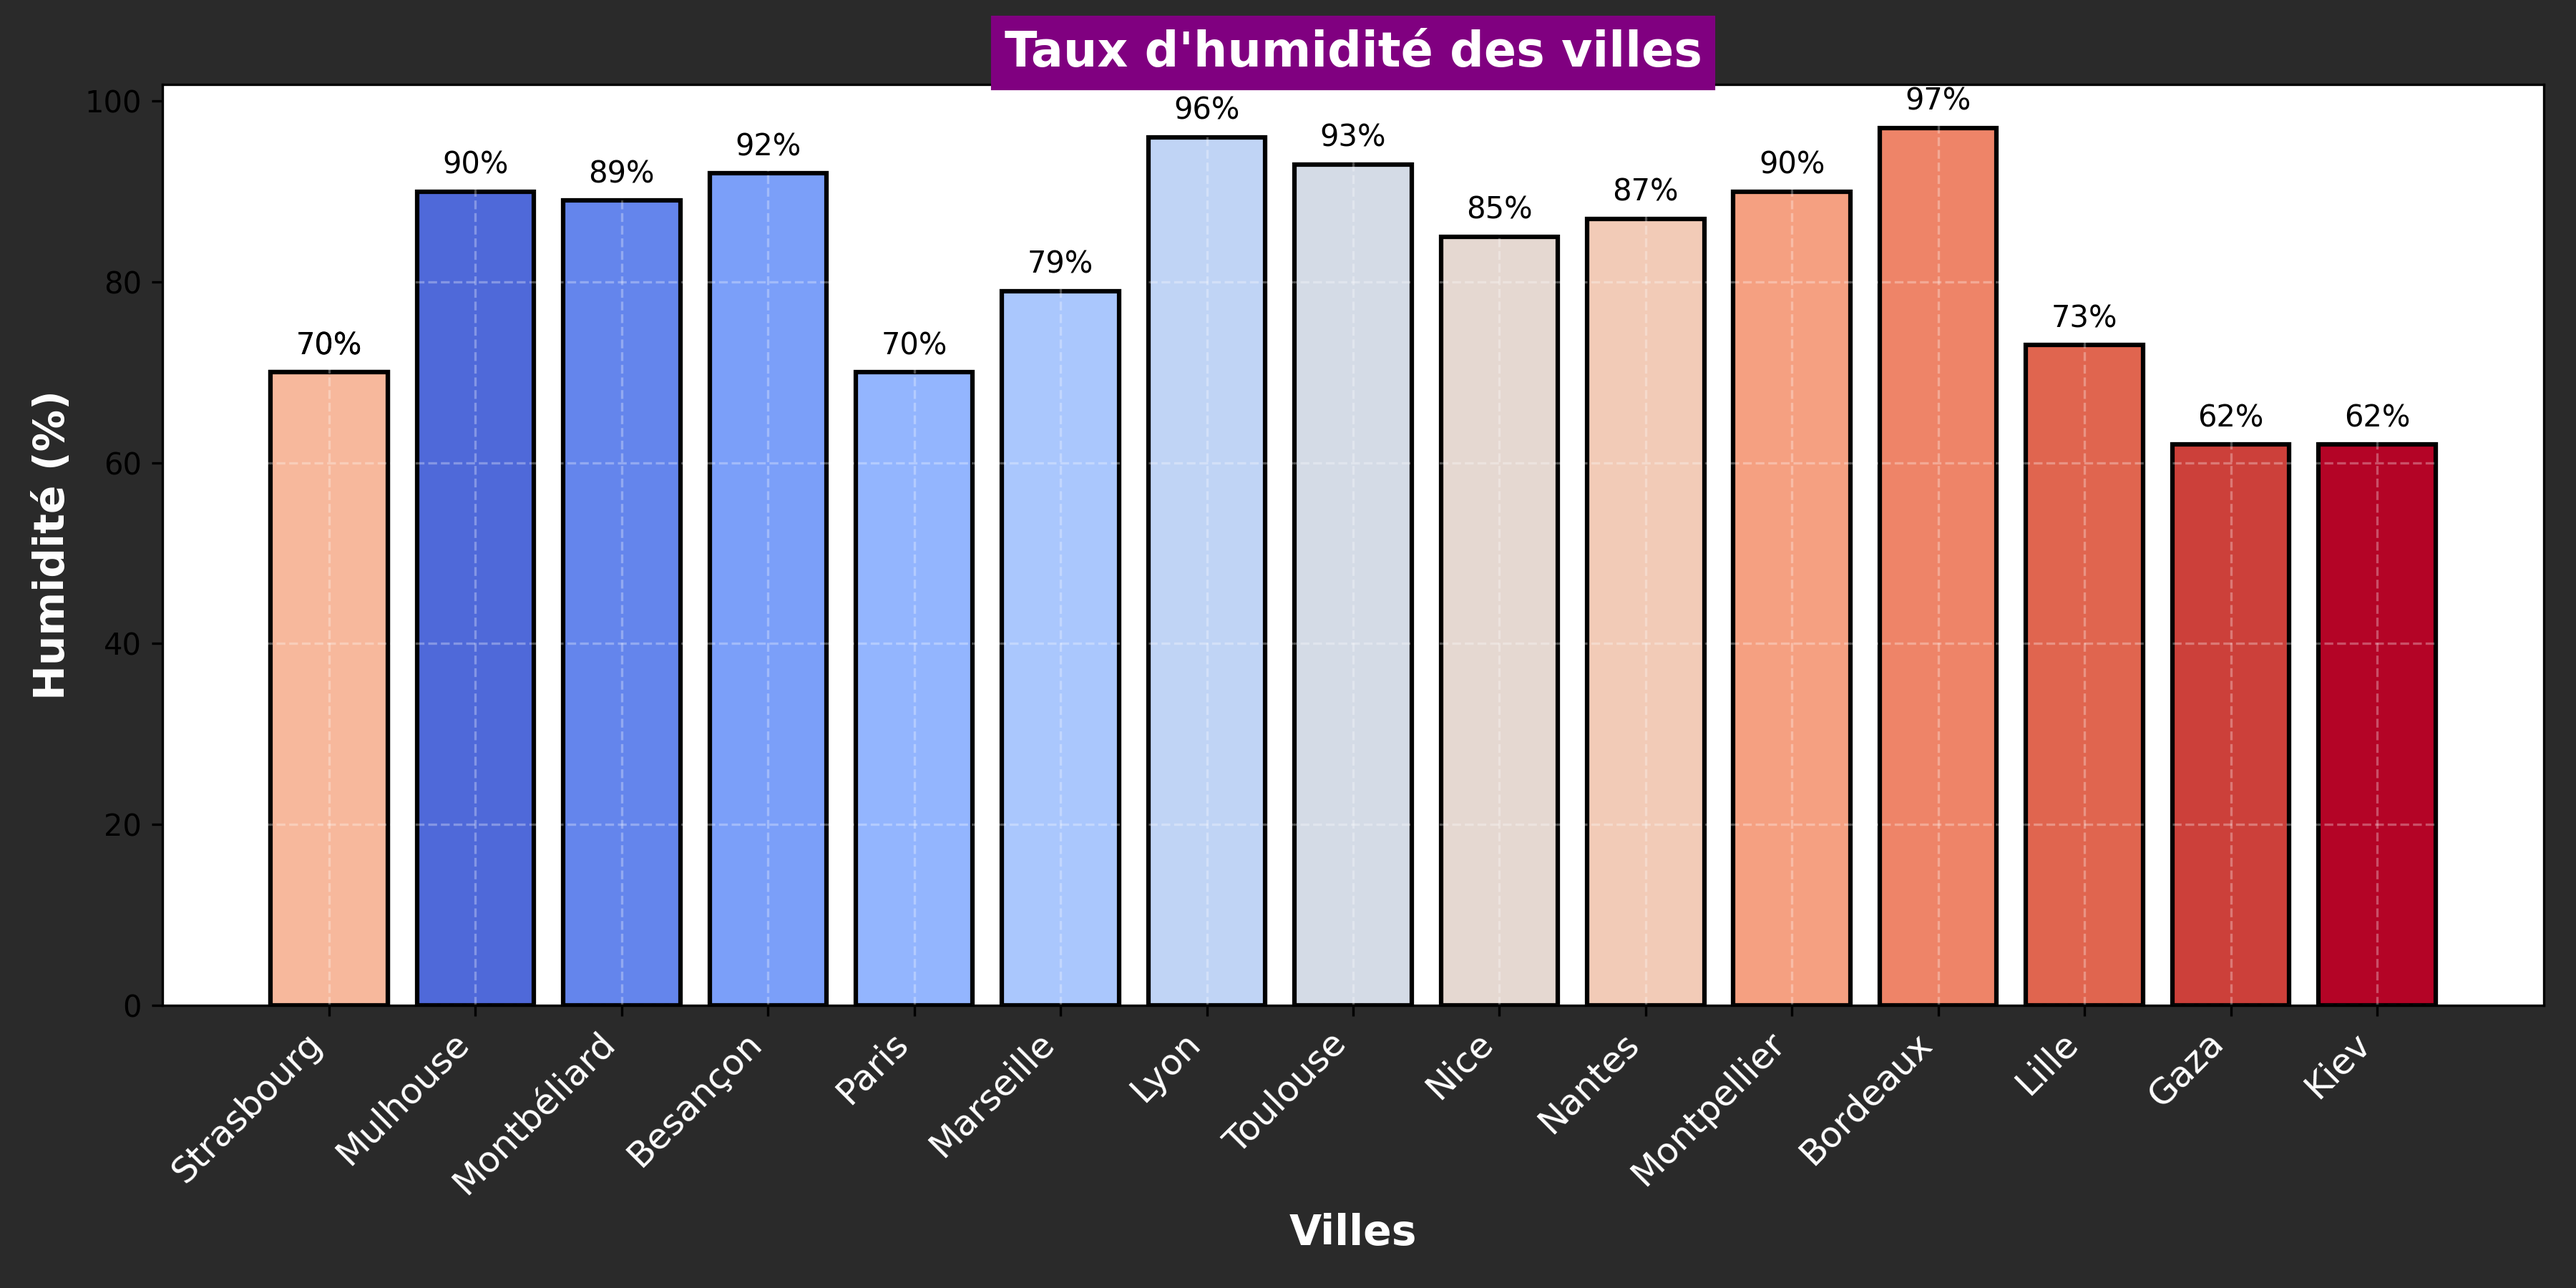
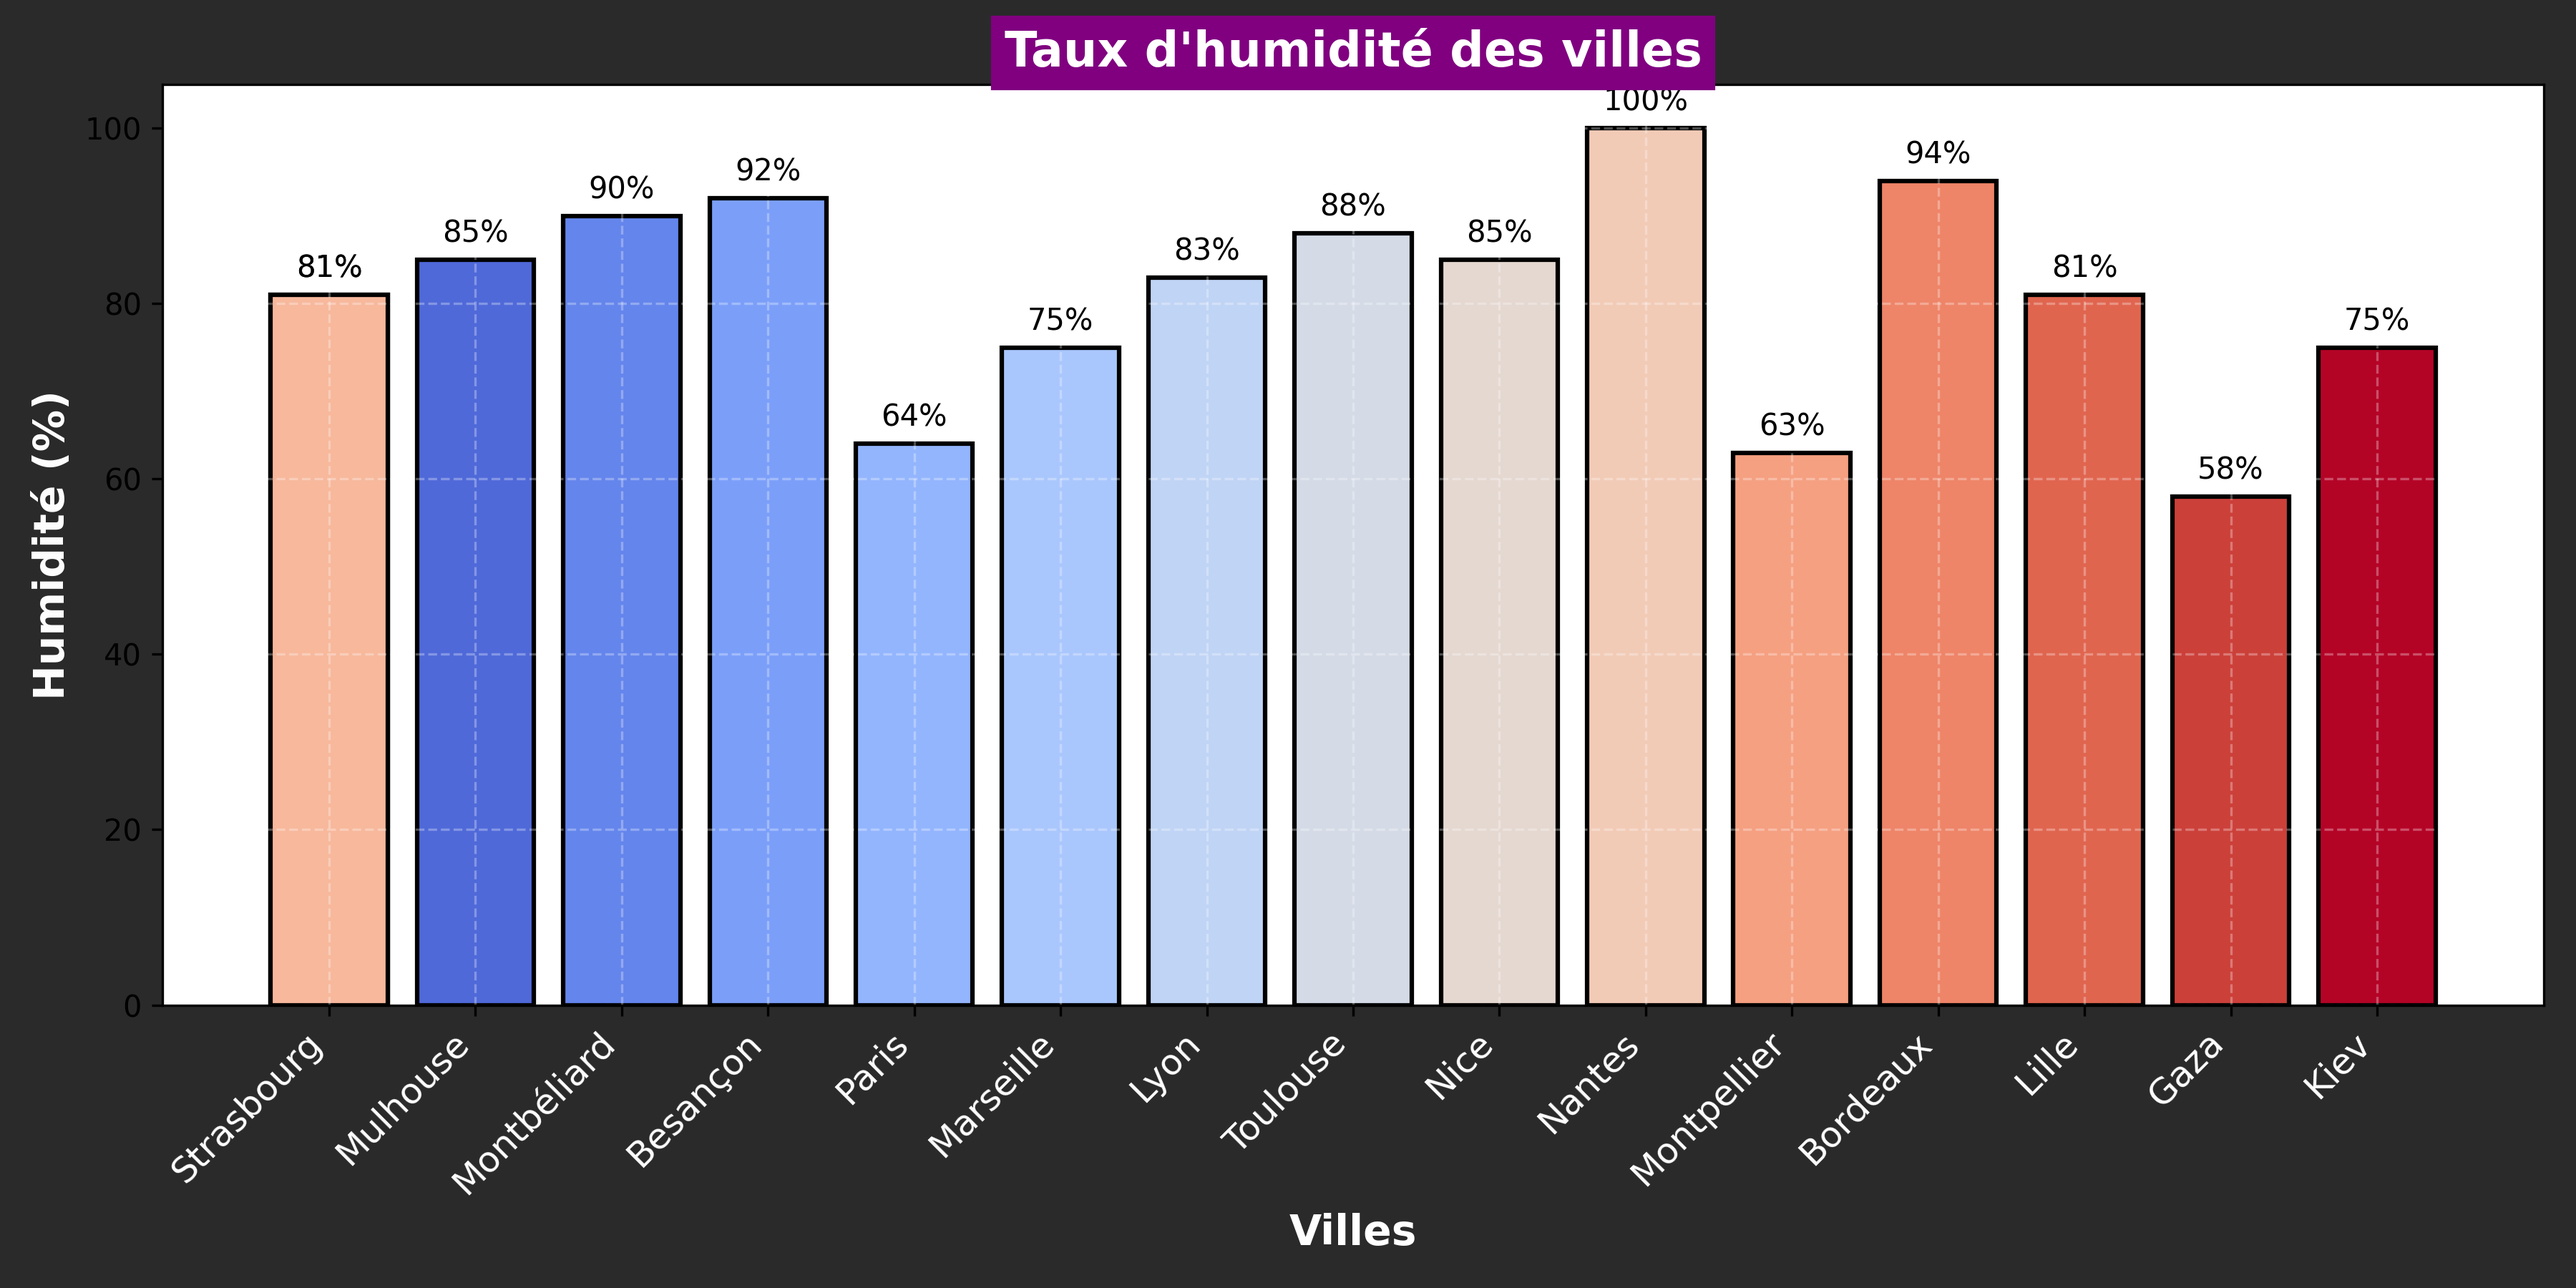
Mise à jour de la météo et ajout du graphique d'humidité

diff --git a/README.md b/README.md
@@ -24,103 +24,103 @@ Ce repo contient plusieurs workflows GitHub Actions :
 ## Météo actuelle :
 ## Météo des grandes villes + Gaza et Kiev 🌍
 
-🕒 Mise à jour : 20/05/2025 08:18:20
+🕒 Mise à jour : 21/05/2025 08:18:29
 
-### 🌍 Strasbourg 🌧
-**Conditions :** légère pluie
-**Température :** 14.02°C
-**Humidité :** 70%
-**Vent :** 1.78 m/s
+### 🌍 Strasbourg 🌥
+**Conditions :** couvert
+**Température :** 16.2°C
+**Humidité :** 81%
+**Vent :** 2.31 m/s
 
 ### 🌍 Mulhouse 🌥
 **Conditions :** couvert
-**Température :** 14.75°C
-**Humidité :** 90%
-**Vent :** 0.45 m/s
+**Température :** 15.49°C
+**Humidité :** 85%
+**Vent :** 2.06 m/s
 
 ### 🌍 Montbéliard 🌥
 **Conditions :** couvert
-**Température :** 14.99°C
-**Humidité :** 89%
-**Vent :** 2.07 m/s
+**Température :** 15.54°C
+**Humidité :** 90%
+**Vent :** 2.44 m/s
 
 ### 🌍 Besançon 🌥
 **Conditions :** couvert
-**Température :** 13°C
+**Température :** 13.83°C
 **Humidité :** 92%
-**Vent :** 1.15 m/s
+**Vent :** 1.47 m/s
 
-### 🌍 Paris 🌥
-**Conditions :** partiellement nuageux
-**Température :** 14.12°C
-**Humidité :** 70%
-**Vent :** 1.34 m/s
+### 🌍 Paris ☀
+**Conditions :** ciel dégagé
+**Température :** 13.83°C
+**Humidité :** 64%
+**Vent :** 1.54 m/s
 
-### 🌍 Marseille 🌧
-**Conditions :** pluie modérée
-**Température :** 13.62°C
-**Humidité :** 79%
-**Vent :** 2.68 m/s
+### 🌍 Marseille ☀
+**Conditions :** ciel dégagé
+**Température :** 15.49°C
+**Humidité :** 75%
+**Vent :** 2.24 m/s
 
-### 🌍 Lyon 🌧
-**Conditions :** légère pluie
-**Température :** 10.93°C
-**Humidité :** 96%
-**Vent :** 0.65 m/s
+### 🌍 Lyon 🌥
+**Conditions :** nuageux
+**Température :** 11.69°C
+**Humidité :** 83%
+**Vent :** 1.87 m/s
 
 ### 🌍 Toulouse 🌥
 **Conditions :** couvert
-**Température :** 14.54°C
-**Humidité :** 93%
-**Vent :** 8.28 m/s
+**Température :** 12.99°C
+**Humidité :** 88%
+**Vent :** 3.6 m/s
 
 ### 🌍 Nice 🌥
-**Conditions :** couvert
-**Température :** 11.39°C
+**Conditions :** peu nuageux
+**Température :** 10.28°C
 **Humidité :** 85%
-**Vent :** 1.38 m/s
+**Vent :** 0.27 m/s
 
-### 🌍 Nantes ☀
-**Conditions :** ciel dégagé
-**Température :** 11.67°C
-**Humidité :** 87%
-**Vent :** 2.99 m/s
-
-### 🌍 Strasbourg 🌧
-**Conditions :** légère pluie
-**Température :** 14.02°C
-**Humidité :** 70%
-**Vent :** 1.78 m/s
-
-### 🌍 Montpellier 🌥
+### 🌍 Nantes 🌥
 **Conditions :** couvert
-**Température :** 14.72°C
-**Humidité :** 90%
-**Vent :** 0.45 m/s
+**Température :** 12.96°C
+**Humidité :** 100%
+**Vent :** 2.57 m/s
+
+### 🌍 Strasbourg 🌥
+**Conditions :** couvert
+**Température :** 16.2°C
+**Humidité :** 81%
+**Vent :** 2.31 m/s
+
+### 🌍 Montpellier ☀
+**Conditions :** ciel dégagé
+**Température :** 17.5°C
+**Humidité :** 63%
+**Vent :** 6.69 m/s
 
 ### 🌍 Bordeaux 🌥
 **Conditions :** nuageux
-**Température :** 15.16°C
-**Humidité :** 97%
-**Vent :** 3.04 m/s
+**Température :** 13.15°C
+**Humidité :** 94%
+**Vent :** 1.54 m/s
 
-### 🌍 Lille 🌥
-**Conditions :** partiellement nuageux
-**Température :** 12.47°C
-**Humidité :** 73%
-**Vent :** 3.52 m/s
+### 🌍 Lille 🌫
+**Conditions :** brume
+**Température :** 11.51°C
+**Humidité :** 81%
+**Vent :** 1.03 m/s
 
 ### 🌍 Gaza ☀
 **Conditions :** ciel dégagé
-**Température :** 22.29°C
-**Humidité :** 62%
-**Vent :** 2.67 m/s
+**Température :** 22.39°C
+**Humidité :** 58%
+**Vent :** 1.82 m/s
 
 ### 🌍 Kiev 🌥
 **Conditions :** partiellement nuageux
-**Température :** 12.74°C
-**Humidité :** 62%
-**Vent :** 4.13 m/s
+**Température :** 17.62°C
+**Humidité :** 75%
+**Vent :** 0.45 m/s
 
 <p align='center'><img src='https://raw.githubusercontent.com/khoa083/khoa/main/Khoa_ne/img/Rainbow.gif' width='100%' style='border-radius: 5px; border: 3px solid #39FF14; box-shadow: 0 0 10px #39FF14, 0 0 20px #39FF14;' /></p>
 
